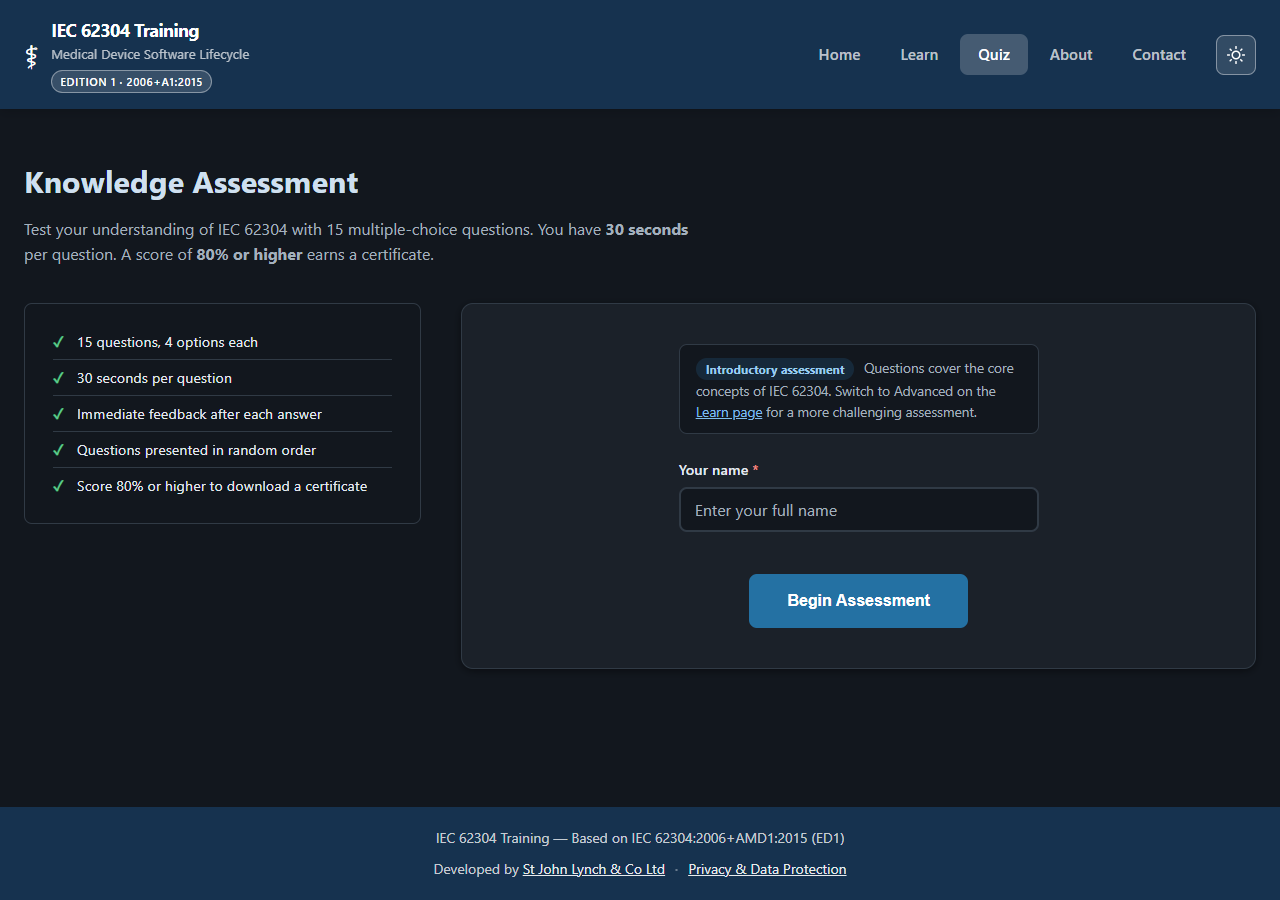
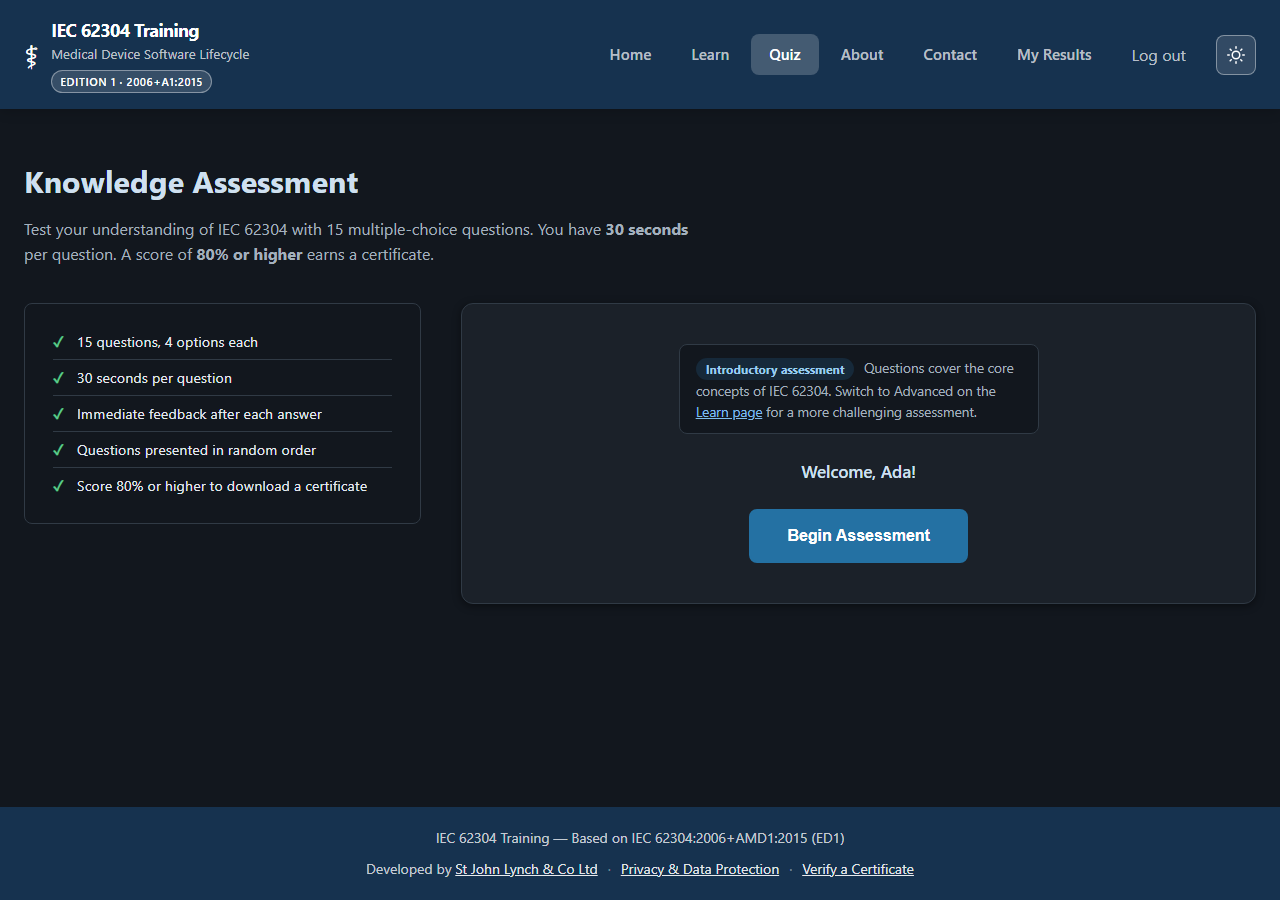
Update old and stale screen shots in README.md following creation of database, e.g. user name now appears when starting quiz, whereas previously one had to enter user name just prior to taking the quiz since no data was held and the name was required for the certificate if passed.

diff --git a/tests/capture_backend_screenshots.py b/tests/capture_backend_screenshots.py
@@ -156,13 +156,25 @@ def sign_up(pg, email, name):
     pg.wait_for_timeout(300)
 
 
-def sit_quiz(pg, all_correct=True):
+def sit_quiz(pg, all_correct=True, on_start=None, on_first_question=None, on_first_feedback=None):
+    """Signs the current session through a full attempt, from the start
+    screen to the results screen. The three `on_*` callbacks are each
+    invoked once, at the matching point in the FIRST question only — this
+    is what lets a caller grab a mid-flow screenshot (start screen, a
+    question, its feedback) without duplicating this whole loop just to
+    stop it early. Screenshotting only the first question/feedback is
+    enough; every question screen looks the same shape, the only real
+    variation is which question it happens to be."""
     pg.goto(FRONTEND_BASE + '/quiz.html')
     pg.wait_for_timeout(600)  # let quiz.js's own DOMContentLoaded settle first
+    if on_start:
+        on_start()
     pg.click('#begin-quiz')
     pg.wait_for_selector('#quiz-active.active', timeout=15000)
-    for _ in range(15):
+    for i in range(15):
         pg.wait_for_selector('.option-btn', timeout=15000)
+        if i == 0 and on_first_question:
+            on_first_question()
         if all_correct:
             idx = pg.evaluate("quizState.shuffled[quizState.currentIndex].correct_index")
         else:
@@ -170,6 +182,8 @@ def sit_quiz(pg, all_correct=True):
             idx = (correct + 1) % 4
         pg.query_selector_all('.option-btn')[idx].click()
         pg.wait_for_selector('#next-question:not([disabled])', timeout=15000)
+        if i == 0 and on_first_feedback:
+            on_first_feedback()
         pg.click('#next-question')
         pg.wait_for_timeout(100)
     pg.wait_for_selector('#quiz-results.active', timeout=15000)
@@ -218,7 +232,19 @@ def main():
                 shoot(pg, 'quiz-auth-required-light')
                 ctx.close()
 
-                # ---- Main walkthrough account: sign up, pass, certificate ----
+                # ---- Quiz: signed-in start screen, dark theme, for comparison ----
+                # A separate account and browser context just for this one
+                # image — localStorage (where the session token lives) is
+                # per-context, so there is no cheaper way to show the same
+                # screen in the other colour scheme.
+                ctx, pg = new_page(browser, 'dark')
+                sign_up(pg, 'demo-learner-dark@example.com', 'Ada Lovelace')
+                pg.goto(FRONTEND_BASE + '/quiz.html')
+                pg.wait_for_timeout(500)
+                shoot(pg, 'quiz-start-dark')
+                ctx.close()
+
+                # ---- Main walkthrough account: sign up, sit the quiz, pass, certificate ----
                 ctx, pg = new_page(browser, 'light')
                 sign_up(pg, 'demo-learner@example.com', 'Ada Lovelace')
 
@@ -226,7 +252,16 @@ def main():
                 pg.wait_for_timeout(300)
                 shoot(pg, 'nav-signed-in-light')
 
-                sit_quiz(pg, all_correct=True)
+                # The quiz start/question/feedback screens are only reachable
+                # once signed in now (see the auth-gate screenshot above), so
+                # they're captured here, mid-attempt, rather than by the
+                # static capture_screenshots.py the way they used to be.
+                sit_quiz(
+                    pg, all_correct=True,
+                    on_start=lambda: shoot(pg, 'quiz-start-light'),
+                    on_first_question=lambda: shoot(pg, 'quiz-question-light'),
+                    on_first_feedback=lambda: shoot(pg, 'quiz-feedback-light'),
+                )
                 shoot(pg, 'quiz-results-pass-light')
 
                 # The certificate itself — print-media emulation, same
@@ -258,6 +293,19 @@ def main():
                 pg.wait_for_timeout(1000)
                 shoot(pg, 'verify-not-found-light')
                 ctx.close()
+
+                # ---- Quiz: below the pass mark ---- 8/15 (53%), below the 80%
+                # pass mark, so the results screen shows "Keep Studying" and no
+                # certificate — the other real outcome the site can produce, not
+                # just the all-correct case above. A separate account per run
+                # (email must be unique) and per colour scheme, same reasoning
+                # as the dark start-screen capture above.
+                for scheme, suffix in [('light', 'light'), ('dark', 'dark')]:
+                    ctx, pg = new_page(browser, scheme)
+                    sign_up(pg, 'demo-fail-%s@example.com' % suffix, 'Sam Rivera')
+                    sit_quiz(pg, all_correct=False)
+                    shoot(pg, 'quiz-results-fail-%s' % suffix)
+                    ctx.close()
 
                 # ---- Reviews: signed-out prompt ----
                 ctx, pg = new_page(browser, 'light')

diff --git a/tests/capture_screenshots.py b/tests/capture_screenshots.py
@@ -89,37 +89,6 @@ def shoot(pg, name):
     print('  wrote %s' % os.path.relpath(path, ROOT))
 
 
-def answer_one_question_correctly(pg):
-    """Answer just the first question correctly, purely to move the quiz on to
-    a state worth photographing — the full run lives in test_site.py."""
-    with open(os.path.join(ROOT, 'data', 'questions-intro.json'), encoding='utf-8') as f:
-        import json
-        first = json.load(f)[0]
-    pg.wait_for_selector('.option-btn:not([disabled])', timeout=8000)
-    # Question order is shuffled, so match on text rather than assuming Q1 is first.
-    want = first['options'][first['correct']].strip().lower()
-    buttons = pg.locator('.option-btn')
-    idx = next((i for i in range(buttons.count())
-                if buttons.nth(i).inner_text().strip().lower() == want), 0)
-    buttons.nth(idx).click()
-    pg.wait_for_selector('#question-feedback.visible', timeout=8000)
-
-
-def run_full_quiz(pg, correct_count, total=15):
-    """Answers every question — the first `correct_count` correctly, the rest
-    wrong — and waits for the results screen. Same technique test_site.py
-    uses for its all-right/all-wrong runs, generalised to any score so a
-    below-pass-mark result (e.g. 8/15) can be photographed too."""
-    for i in range(total):
-        pg.wait_for_selector('.option-btn:not([disabled])', timeout=8000)
-        ci = pg.evaluate("() => quizState.shuffled[quizState.currentIndex].correct")
-        idx = ci if i < correct_count else (ci + 1) % 4
-        pg.locator('.option-btn').nth(idx).click()
-        pg.wait_for_selector('#question-feedback.visible', timeout=8000)
-        pg.locator('#next-question').click()
-    pg.wait_for_selector('#quiz-results.active', timeout=8000)
-
-
 def main():
     os.makedirs(OUT, exist_ok=True)
     httpd, base = start_server()
@@ -206,38 +175,16 @@ def main():
                 ctx.close()
 
                 # ---- Quiz ----
-                ctx, pg = new_page(browser, 'light')
-                pg.goto(base + '/quiz.html')
-                pg.wait_for_timeout(200)
-                shoot(pg, 'quiz-start-light')
-                pg.fill('#participant-name', 'Ada Lovelace')
-                pg.locator('#begin-quiz').click()
-                pg.wait_for_selector('#quiz-active.active', timeout=10000)
-                shoot(pg, 'quiz-question-light')
-                answer_one_question_correctly(pg)
-                shoot(pg, 'quiz-feedback-light')
-                ctx.close()
-
-                ctx, pg = new_page(browser, 'dark')
-                pg.goto(base + '/quiz.html')
-                pg.wait_for_timeout(200)
-                shoot(pg, 'quiz-start-dark')
-                ctx.close()
-
-                # ---- Quiz: below the pass mark ---- 8/15 (53%), below the 80%
-                # pass mark, so the results screen shows "Keep Studying" and no
-                # certificate — the other real outcome the site can produce, not
-                # just the all-correct case.
-                for scheme, suffix in [('light', 'light'), ('dark', 'dark')]:
-                    ctx, pg = new_page(browser, scheme)
-                    pg.goto(base + '/quiz.html')
-                    pg.fill('#participant-name', 'Sam Rivera')
-                    pg.locator('#begin-quiz').click()
-                    pg.wait_for_selector('#quiz-active.active', timeout=10000)
-                    run_full_quiz(pg, correct_count=8)
-                    pg.wait_for_timeout(150)
-                    shoot(pg, 'quiz-results-fail-%s' % suffix)
-                    ctx.close()
+                # No longer captured here. quiz.js now requires a signed-in
+                # session before the start screen (or any quiz state) will
+                # even render — a plain file server with no backend can never
+                # reach it, only ever the "Sign In Required" gate. Every quiz
+                # screenshot (the gate, the signed-in start/question/feedback
+                # screens, a pass, a below-pass-mark result) is captured by
+                # capture_backend_screenshots.py instead, which stands up a
+                # real disposable backend first. See that script and the
+                # "Accounts, quiz saving, certificates..." section of
+                # README.md for all of them.
 
                 # ---- Contact ----
                 for scheme, suffix in [('light', 'light'), ('dark', 'dark')]:

diff --git a/README.md b/README.md
@@ -81,19 +81,13 @@ Marking a topic studied is blocked until its example document has been opened at
 
 ### Quiz — timed assessment with immediate feedback
 
-| Start screen | Question in progress | Feedback on an answer |
-|---|---|---|
-| ![Quiz start screen, light theme](docs/assets/screenshots/quiz-start-light.png) | ![Quiz question screen](docs/assets/screenshots/quiz-question-light.png) | ![Quiz feedback after answering](docs/assets/screenshots/quiz-feedback-light.png) |
-
-Dark theme, for comparison:
-
-![Quiz start screen, dark theme](docs/assets/screenshots/quiz-start-dark.png)
-
-Scoring below the 80% pass mark shows "Keep Studying" and no certificate offer, rather than the site pretending every attempt is a pass:
-
-| Light | Dark |
-|---|---|
-| ![Quiz results screen below the pass mark, light theme](docs/assets/screenshots/quiz-results-fail-light.png) | ![Quiz results screen below the pass mark, dark theme](docs/assets/screenshots/quiz-results-fail-dark.png) |
+The assessment is gated behind sign-in (see [Backend](#backend)) — a plain
+file server with no account behind it can never reach the start screen or
+any question, only the "Sign In Required" gate. Every quiz screenshot —
+the gate, the signed-in start/question/feedback screens, a pass and its
+certificate, a below-pass-mark result — lives further down under
+[Accounts, quiz saving, certificates, reviews and admin](#accounts-quiz-saving-certificates-reviews-and-admin),
+captured signed in against a real (disposable) backend rather than here.
 
 ### Contact
 
@@ -134,6 +128,19 @@ never be saved:
 
 ![Quiz page's sign-in-required gate, shown instead of the assessment while signed out](docs/assets/screenshots/quiz-auth-required-light.png)
 
+Once signed in, the start screen greets the learner by the name given at
+sign-up instead of asking them to retype it (an account created before this
+field existed falls back to a plain name input — see `quiz.html`'s own
+comment on `#quiz-name-group`):
+
+| Start screen | Question in progress | Feedback on an answer |
+|---|---|---|
+| ![Quiz start screen, signed in and welcomed by name, light theme](docs/assets/screenshots/quiz-start-light.png) | ![Quiz question screen](docs/assets/screenshots/quiz-question-light.png) | ![Quiz feedback after answering](docs/assets/screenshots/quiz-feedback-light.png) |
+
+Dark theme, for comparison:
+
+![Quiz start screen, signed in, dark theme](docs/assets/screenshots/quiz-start-dark.png)
+
 A pass saves the attempt in the background (see the "Result saved to your
 account" line) and offers a certificate — carrying a real Certificate ID
 tied to that saved row, not a decoration:
@@ -141,6 +148,12 @@ tied to that saved row, not a decoration:
 ![Quiz results screen after a 100% pass, with the result-saved status line and a Download Certificate button](docs/assets/screenshots/quiz-results-pass-light.png)
 
 ![Certificate of completion, with the issuer's logo, a Certificate ID, and the site address to verify it at](docs/assets/screenshots/certificate-light.png)
+
+Scoring below the 80% pass mark shows "Keep Studying" and no certificate offer, rather than the site pretending every attempt is a pass:
+
+| Light | Dark |
+|---|---|
+| ![Quiz results screen below the pass mark, light theme](docs/assets/screenshots/quiz-results-fail-light.png) | ![Quiz results screen below the pass mark, dark theme](docs/assets/screenshots/quiz-results-fail-dark.png) |
 
 **My Results** is the other half of that saved data — every attempt a
 signed-in learner has ever made, with the real date it happened, and a
